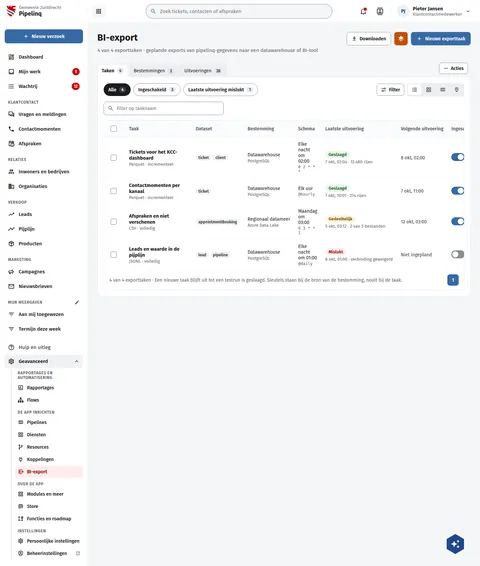
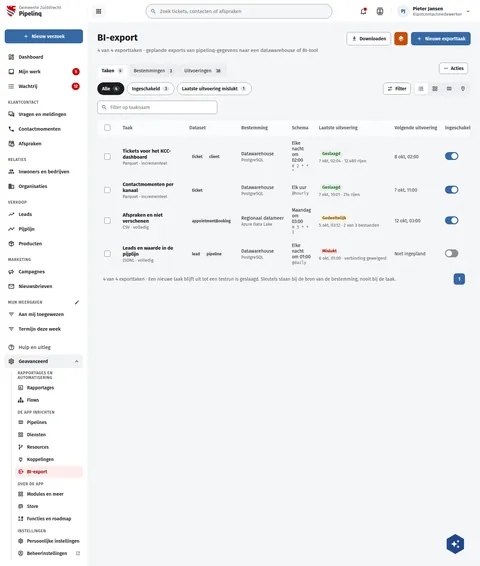
fix(screens): PqBiExport draws its page tabs over the list, as DqContracten
Assisted-by: ClaudeCode:claude-opus-5-5

diff --git a/preview/screens/boards/PqBiExport.html b/preview/screens/boards/PqBiExport.html
@@ -255,7 +255,7 @@ a{color:var(--sc-primary, #3669a5)}a:hover{color:var(--sc-primary-deep, #234a78)
               </div>
               <button type="button" aria-haspopup="menu" style="flex: none; align-self: flex-start; margin: 0 8px 8px 0; display: inline-flex; align-items: center; gap: 6px; min-height: 34px; padding: 0 12px; border: 1px solid var(--sc-work-field, #828a95); border-radius: 8px; background: #ffffff; font: 600 14px var(--sc-font, 'Fira Sans'), sans-serif; color: var(--sc-work-ink, #1b1c1d)"><svg width="16" height="16" viewbox="0 0 24 24" fill="currentColor"><path d="M16,12A2,2 0 0,1 18,10A2,2 0 0,1 20,12A2,2 0 0,1 18,14A2,2 0 0,1 16,12M10,12A2,2 0 0,1 12,10A2,2 0 0,1 14,12A2,2 0 0,1 12,14A2,2 0 0,1 10,12M4,12A2,2 0 0,1 6,10A2,2 0 0,1 8,12A2,2 0 0,1 6,14A2,2 0 0,1 4,12Z"></path></svg>Acties</button>
             </div>
-            <div role="tabpanel" aria-label="Taken" style="background: #ffffff; border: 1px solid var(--sc-work-line, #e4e6ea); border-radius: 0 12px 12px 12px; padding: 18px; display: flex; flex-direction: column; gap: 16px">
+            <div role="tabpanel" aria-label="Taken" style="padding-top: 16px; display: flex; flex-direction: column; gap: 16px">
         <div style="display: flex; flex-wrap: wrap; gap: 8px; align-items: center">
           
             <button type="button" aria-pressed="true" style="display: flex; align-items: center; gap: 8px; height: 38px; padding: 0 14px; border-radius: 19px; font: 600 14px var(--sc-font, 'Fira Sans'), sans-serif; border: 0; background: var(--sc-work-ink, #1b1c1d); color: #ffffff;">Alle<span style="padding: 1px 7px; border-radius: 10px; font-size: 12px; background: var(--sc-work-text, #3d4047); color: #ffffff;">4</span></button>

diff --git a/screens-src/zuiddrecht/PqBiExport.dc.html b/screens-src/zuiddrecht/PqBiExport.dc.html
@@ -43,7 +43,7 @@ a{color:#3669a5}a:hover{color:#234a78}
               </div>
               <button type="button" aria-haspopup="menu" style="flex: none; align-self: flex-start; margin: 0 8px 8px 0; display: inline-flex; align-items: center; gap: 6px; min-height: 34px; padding: 0 12px; border: 1px solid #828a95; border-radius: 8px; background: #ffffff; font: 600 14px 'Fira Sans', sans-serif; color: #1b1c1d"><svg width="16" height="16" viewBox="0 0 24 24" fill="currentColor"><path d="M16,12A2,2 0 0,1 18,10A2,2 0 0,1 20,12A2,2 0 0,1 18,14A2,2 0 0,1 16,12M10,12A2,2 0 0,1 12,10A2,2 0 0,1 14,12A2,2 0 0,1 12,14A2,2 0 0,1 10,12M4,12A2,2 0 0,1 6,10A2,2 0 0,1 8,12A2,2 0 0,1 6,14A2,2 0 0,1 4,12Z"></path></svg>Acties</button>
             </div>
-            <div role="tabpanel" aria-label="Taken" style="background: #ffffff; border: 1px solid #e4e6ea; border-radius: 0 12px 12px 12px; padding: 18px; display: flex; flex-direction: column; gap: 16px">
+            <div role="tabpanel" aria-label="Taken" style="padding-top: 16px; display: flex; flex-direction: column; gap: 16px">
         <div style="display: flex; flex-wrap: wrap; gap: 8px; align-items: center">
           <sc-for list="{{ views }}" as="v" hint-placeholder-count="5">
             <button type="button" aria-pressed="{{ v.pressed }}" style="{{ v.style }}">{{ v.label }}<span style="{{ v.countStyle }}">{{ v.count }}</span></button>
